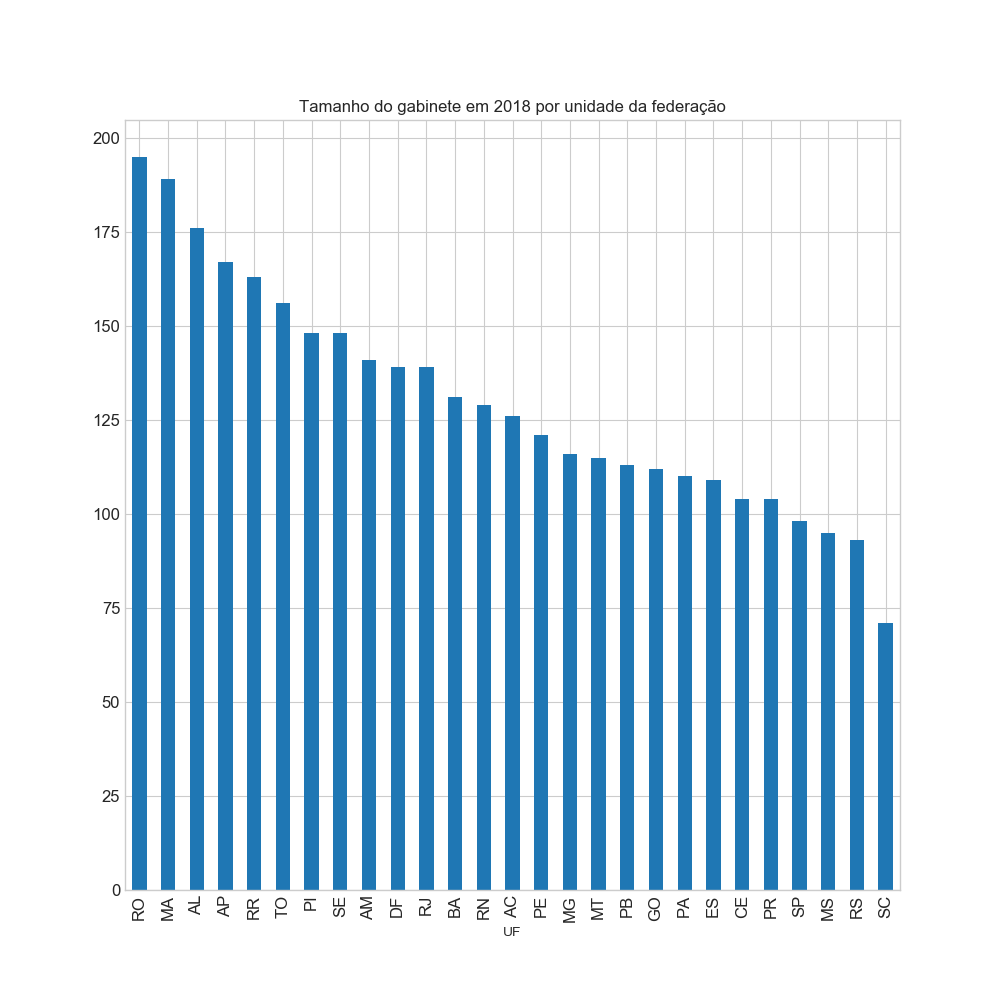
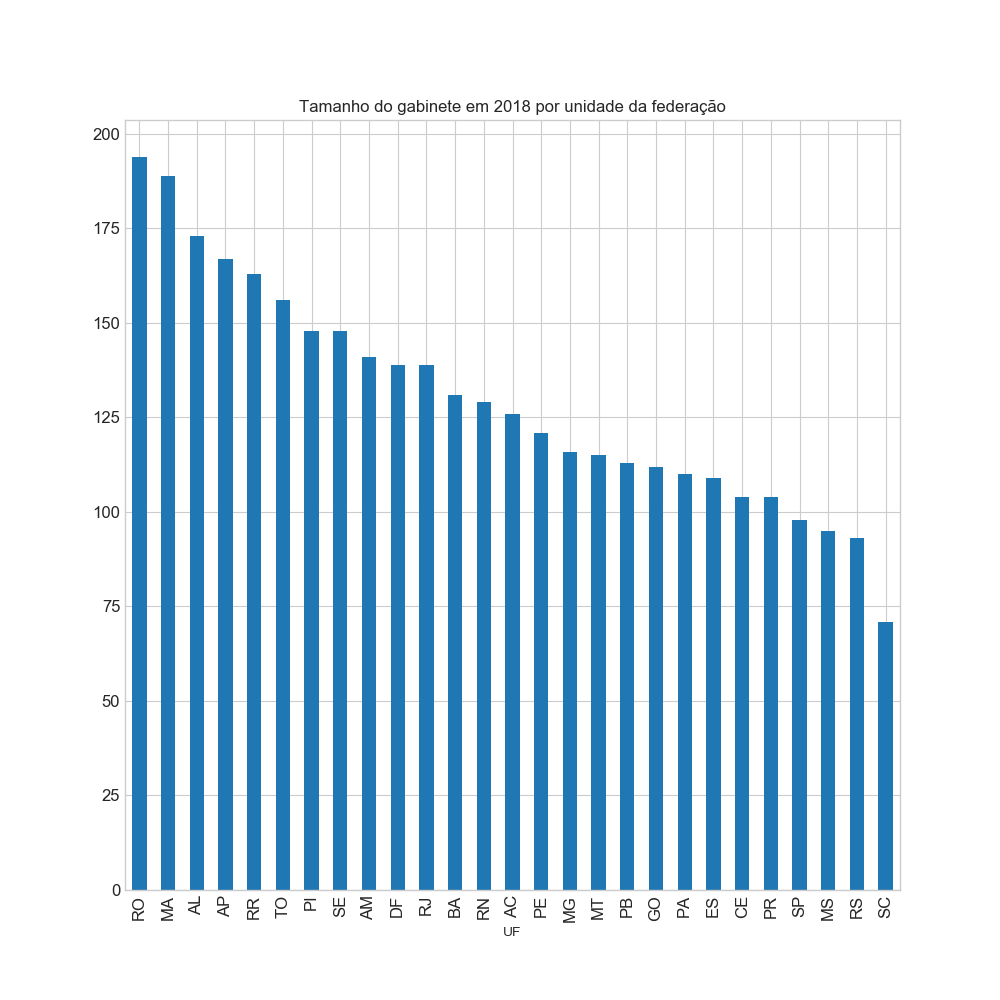
Atualização de dados do Senado (55)- auto

diff --git a/index.html b/index.html
@@ -29,9 +29,9 @@
       <div class="row"><b class="SenadoSubTitle">Informações de despesas de senadores</b><br></div>
       <div class="row"><b class="SenadoSubTitle">Dados coletados em 
 <!--Data-->       
-26/07/2018 às 
+27/07/2018 às 
 <!--Hora-->
-16:16:31      </b><br></div>
+09:07:25      </b><br></div>
       <br>
       <div class="TextoImagem">
         <center>
@@ -108,7 +108,7 @@
               <td align='left'>Titular</td>
               <td align='middle'>RO</td>
               <td align='left'>PDT</td>
-              <td align='right'>52 pessoas</td>
+              <td align='right'>51 pessoas</td>
               <td align='right'>1 mês</td>
             </tr>
             <tr>
@@ -361,7 +361,7 @@
               <td align='left'>Titular</td>
               <td align='middle'>AL</td>
               <td align='left'>PTC</td>
-              <td align='right'>59 pessoas</td>
+              <td align='right'>56 pessoas</td>
               <td align='right'>41 meses</td>
             </tr>
             <tr>
